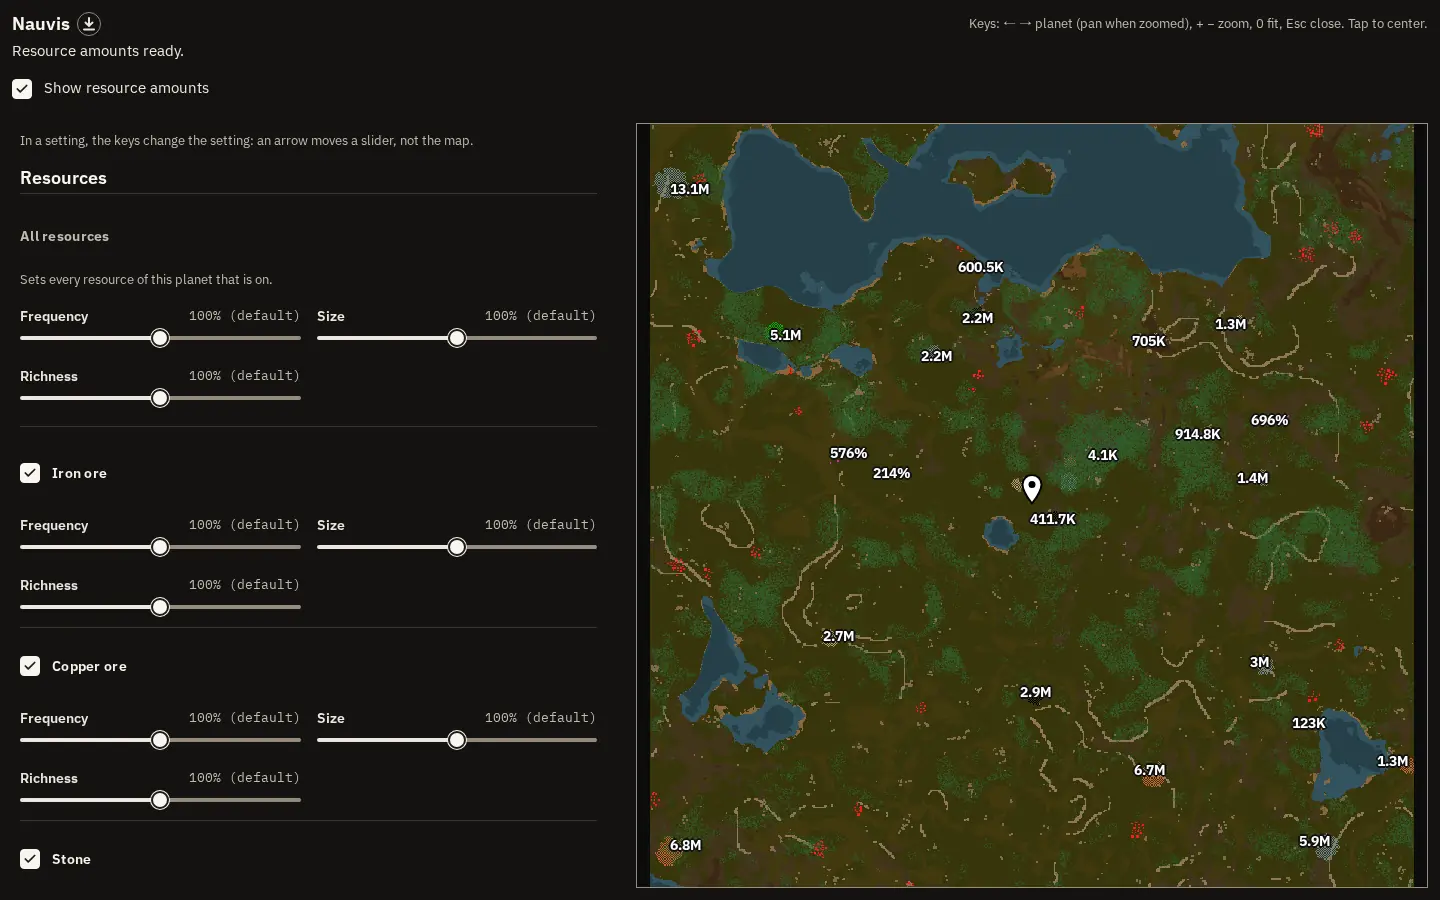
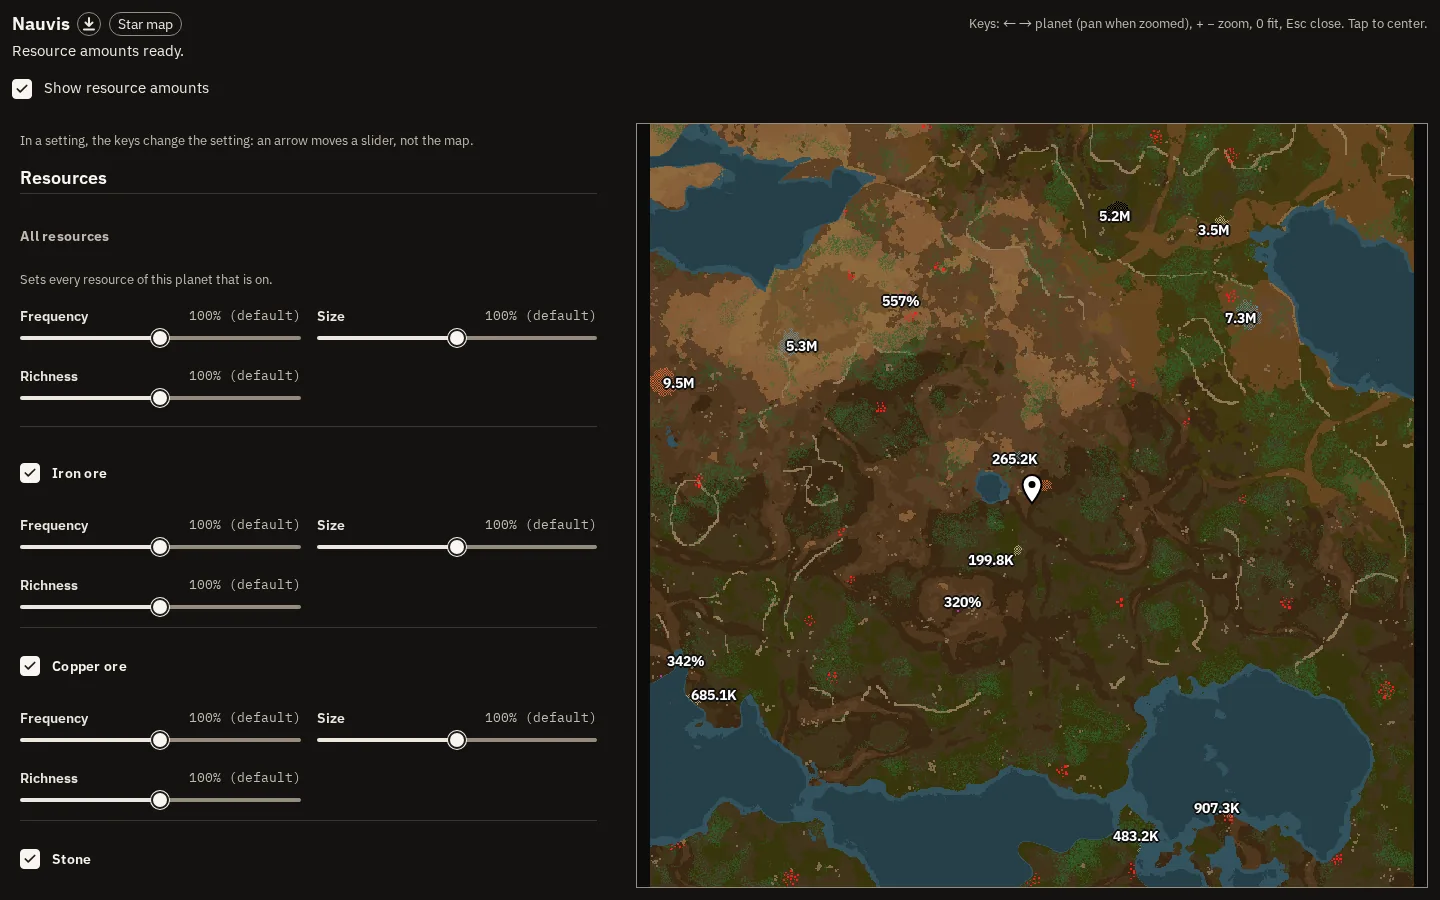
Docs refresh for 1.0.0: 27 screenshots retaken from a real instance at 1b04b378, wired into README
Retakes all 17 README screenshots and adds 10: Gleba, Fulgora, Aquilo and
three modded planets (Maraxsis, Moshine, Vesta with fluid-tile spots), the
star map, the large view, mod settings and the console. Worlds generated by
the real game, mods installed from the mod portal. Alt text rewritten to
match what each picture shows.

diff --git a/README.md b/README.md
@@ -18,7 +18,7 @@ game or restoring an old save, takes a **snapshot** of the world first. A
 snapshot is a complete copy of the world's folder, so a bad mod update or
 a wrong click is undone in one click, and a save is never lost.
 
-<img src="docs/screenshots/server.webp" width="900" alt="The Server page in dark mode with the world Space Age main running on Factorio 2.1.24: uptime, CPU and memory, the snapshot, restart and stop buttons, players online and recent snapshots.">
+<img src="docs/screenshots/server.webp" width="900" alt="The Server page in dark mode with Space Age main running on Factorio 2.1.24: the join address, uptime, snapshot, restart and stop buttons, CPU, memory and play time.">
 
 ## Features
 
@@ -45,11 +45,11 @@ a wrong click is undone in one click, and a save is never lost.
   joined its save, with each one's play time and when Foreman last saw
   them, and shows how long the map has been played.
 
-<img src="docs/screenshots/worlds.webp" width="900" alt="The Worlds page in dark mode: seven worlds on game versions 2.0.77 to 2.1.24, with Space Age on or off, disk use, and a Switch button on each.">
+<img src="docs/screenshots/worlds.webp" width="900" alt="The Worlds page in dark mode: six worlds on game versions 1.1.110 to 2.1.25, with Space Age on or off, when each was last played, disk use, a Switch button on each, and an unfinished world with a Continue button.">
 
-<img src="docs/screenshots/snapshots.webp" width="900" alt="A world's snapshots: one taken by hand before the first rocket launch and two Foreman took automatically before mod changes.">
+<img src="docs/screenshots/snapshots.webp" width="900" alt="A world's snapshots: two taken by hand, before rebuilding the main bus and before the Gleba expedition, and three that Foreman took automatically before world switches and a mod change.">
 
-<img src="docs/screenshots/version-update.webp" width="900" alt="Updating a world from game version 2.1.23: the confirmation says Foreman takes a Before update snapshot first.">
+<img src="docs/screenshots/version-update.webp" width="900" alt="Updating Friends co-op from game version 2.1.23 to 2.1.25: the confirmation says Foreman downloads the game image and takes a Before update snapshot first.">
 
 ### Generating worlds, with a real map preview
 
@@ -76,13 +76,28 @@ what you see is the map you get.
   places them, including a mod's own planets.
 - **A large view** to zoom and pan any picture, with a download of each.
 
-<img src="docs/screenshots/generate-nauvis.webp" width="900" alt="The Generate page's map preview of Nauvis, drawn by the real game, with each resource patch labelled with its amount, such as 2.2M or 600.5K.">
+<img src="docs/screenshots/generate-nauvis.webp" width="900" alt="The large map preview of Nauvis, drawn by the real game, with each resource patch labelled with its amount, such as 5.2M or 685.1K, beside the planet's resource settings.">
 
-<img src="docs/screenshots/generate-vulcanus.webp" width="900" alt="The map preview of Vulcanus with demolisher territories outlined and marked Small or Medium, eleven small and seven medium, beside the resource amounts.">
+<img src="docs/screenshots/generate-vulcanus.webp" width="900" alt="The map preview of Vulcanus with demolisher territories outlined and marked Small or Medium, ten small and eleven medium, beside the resource amounts.">
 
-<!-- screenshot: the four-step Generate bar on step 4, Map settings, with a modded planet listed beside Nauvis -->
+<table>
+  <tr>
+    <td><img src="docs/screenshots/generate-gleba.webp" width="440" alt="The map preview of Gleba with resource amounts, beside its stone, cliff, water and plant settings."></td>
+    <td><img src="docs/screenshots/generate-fulgora.webp" width="440" alt="The map preview of Fulgora: scrap patches on its islands labelled with amounts from 1.6K to 38.5M, beside the scrap and island settings."></td>
+  </tr>
+  <tr>
+    <td><img src="docs/screenshots/generate-aquilo.webp" width="440" alt="The map preview of Aquilo, with crude oil and lithium brine yields shown as percentages and other patches as amounts."></td>
+    <td><img src="docs/screenshots/generate-maraxsis.webp" width="440" alt="The map preview of Maraxsis, a planet from a mod, with its coral reef patches labelled with amounts."></td>
+  </tr>
+  <tr>
+    <td><img src="docs/screenshots/generate-moshine.webp" width="440" alt="The map preview of Moshine, a planet from a mod, crowded with labelled patches, with its own default richness of 15000% shown in the settings."></td>
+    <td><img src="docs/screenshots/generate-vesta.webp" width="440" alt="The map preview of Vesta, a gas planet from a mod, where each spot of gas tiles is labelled with its size in tiles, such as 146 tiles."></td>
+  </tr>
+</table>
 
-<!-- screenshot: the star map in the large view, with the Space Age planets, the routes between them and a modded planet -->
+<img src="docs/screenshots/starmap.webp" width="600" alt="The star map of a world with planet mods: the sun, the five Space Age planets, and Maraxsis, Moshine, Muluna, Cerys, Corrundum and Vesta, with the routes between them.">
+
+<img src="docs/screenshots/large-view.webp" width="900" alt="The large view zoomed in on Cerys, a moon from a mod, with every resource patch labelled with its amount beside the moon's resource settings.">
 
 ### Mods
 
@@ -104,15 +119,15 @@ what you see is the map you get.
   download the running world's mods without signing in. Nothing else is
   shown there.
 
-<img src="docs/screenshots/mods.webp" width="900" alt="A world's Mods page: eight mods from the mod portal installed, including Rate Calculator, Factory Planner and Bottleneck Lite, all up to date.">
+<img src="docs/screenshots/mods.webp" width="900" alt="A world's Mods page: eight mods from the mod portal installed, including Rate Calculator, Factory Planner, Bottleneck Lite and Todo List, all up to date.">
 
-<img src="docs/screenshots/mod-search.webp" width="900" alt="Searching the mod portal for rail from a world's Mods page, with the picked mod gathered in a plan beside the results.">
+<img src="docs/screenshots/mod-search.webp" width="900" alt="Searching the mod portal for train from a world's Mods page, with Project Cybersyn picked into the plan beside the results.">
 
-<img src="docs/screenshots/favorites.webp" width="900" alt="The Favorites page with two saved setups, Rail planning kit and Space Age QoL pack, the second opened to show its eight mods and map exchange string.">
+<img src="docs/screenshots/favorites.webp" width="900" alt="The Favorites page with two saved setups, Planet pack and Space Age QoL pack, the second opened to show its eight mods.">
 
-<img src="docs/screenshots/favorites-apply.webp" width="900" alt="Generating a new world from a favorite: the review lists the mods Foreman will install from the portal.">
+<img src="docs/screenshots/favorites-apply.webp" width="900" alt="Generating a new world from a favorite: the review lists the eight mods Foreman will download from the portal and the snapshot it takes first.">
 
-<!-- screenshot: a world's mod settings page with mod icons shown inside the settings' text -->
+<img src="docs/screenshots/mod-settings.webp" width="900" alt="Editing a world's mod settings: Maraxsis's checkboxes and water opacity, then Muluna's settings, with the mods' coloured text and an inline planet icon.">
 
 ### Factory map
 
@@ -122,8 +137,6 @@ power, rail and other kinds of building. Zoom, pan and download the
 picture. Foreman draws it from a copy of the save, so the game is never
 touched. It draws when you click, or by itself once the world has been
 stopped for a while, if you set it to. It needs Factorio 2.0.61 or newer.
-
-<!-- screenshot: the Factory map tab of a Nauvis base, with the production and power layers ticked -->
 
 ### Running the server
 
@@ -140,6 +153,8 @@ stopped for a while, if you set it to. It needs Factorio 2.0.61 or newer.
 - **An optional VPN sidecar**, so players can join through Tailscale or
   another VPN while LAN players still join the host.
 
+<img src="docs/screenshots/console.webp" width="900" alt="The Console page: the game's live log with a chat message from the server, the command box, and a history of the /version, /time, /evolution and /players commands with the game's replies.">
+
 ### AI assistants through MCP
 
 Foreman has an MCP (Model Context Protocol) endpoint, so an AI assistant
@@ -151,7 +166,7 @@ show a preview and need a second, confirming call. Everything a token
 does is in the audit log under its name. The same tokens also work on a
 REST API, so a script can call the same tools with `curl`.
 
-<img src="docs/screenshots/mcp.webp" width="900" alt="The API tokens settings page: MCP access switched on, and a list of tokens with their scopes and expiry dates.">
+<img src="docs/screenshots/mcp.webp" width="900" alt="The API tokens settings page: MCP and REST API access switched on, and three tokens, Claude Code, Discord bot and Home Assistant, with their scopes and expiry dates.">
 
 ### Sign-in, languages and the interface
 
@@ -167,11 +182,11 @@ REST API, so a script can call the same tools with `curl`.
 - **Works on a phone**, down to 320 pixels wide, in light and dark mode.
   Pages are built and tested for keyboard and screen-reader use.
 
-<img src="docs/screenshots/signin.webp" width="600" alt="The sign-in page in light mode, offering single sign-on through OpenID Connect above the username and password form.">
+<img src="docs/screenshots/signin.webp" width="600" alt="The sign-in page in light mode, offering single sign-on above the username and password form.">
 
 <img src="docs/screenshots/i18n.webp" width="900" alt="The Server page in German.">
 
-<img src="docs/screenshots/audit-log.webp" width="900" alt="The audit log: console commands, a token created, MCP turned on, a game version update, a snapshot and a mod change, each with who did it and when.">
+<img src="docs/screenshots/audit-log.webp" width="900" alt="The audit log filtered to one world: a snapshot taken by the Claude Code API token, console commands, a chat message, a manual snapshot, a world switch and server starts and stops, each with who did it and when.">
 
 <img src="docs/screenshots/worlds-light.webp" width="900" alt="The Worlds page in light mode.">
 
